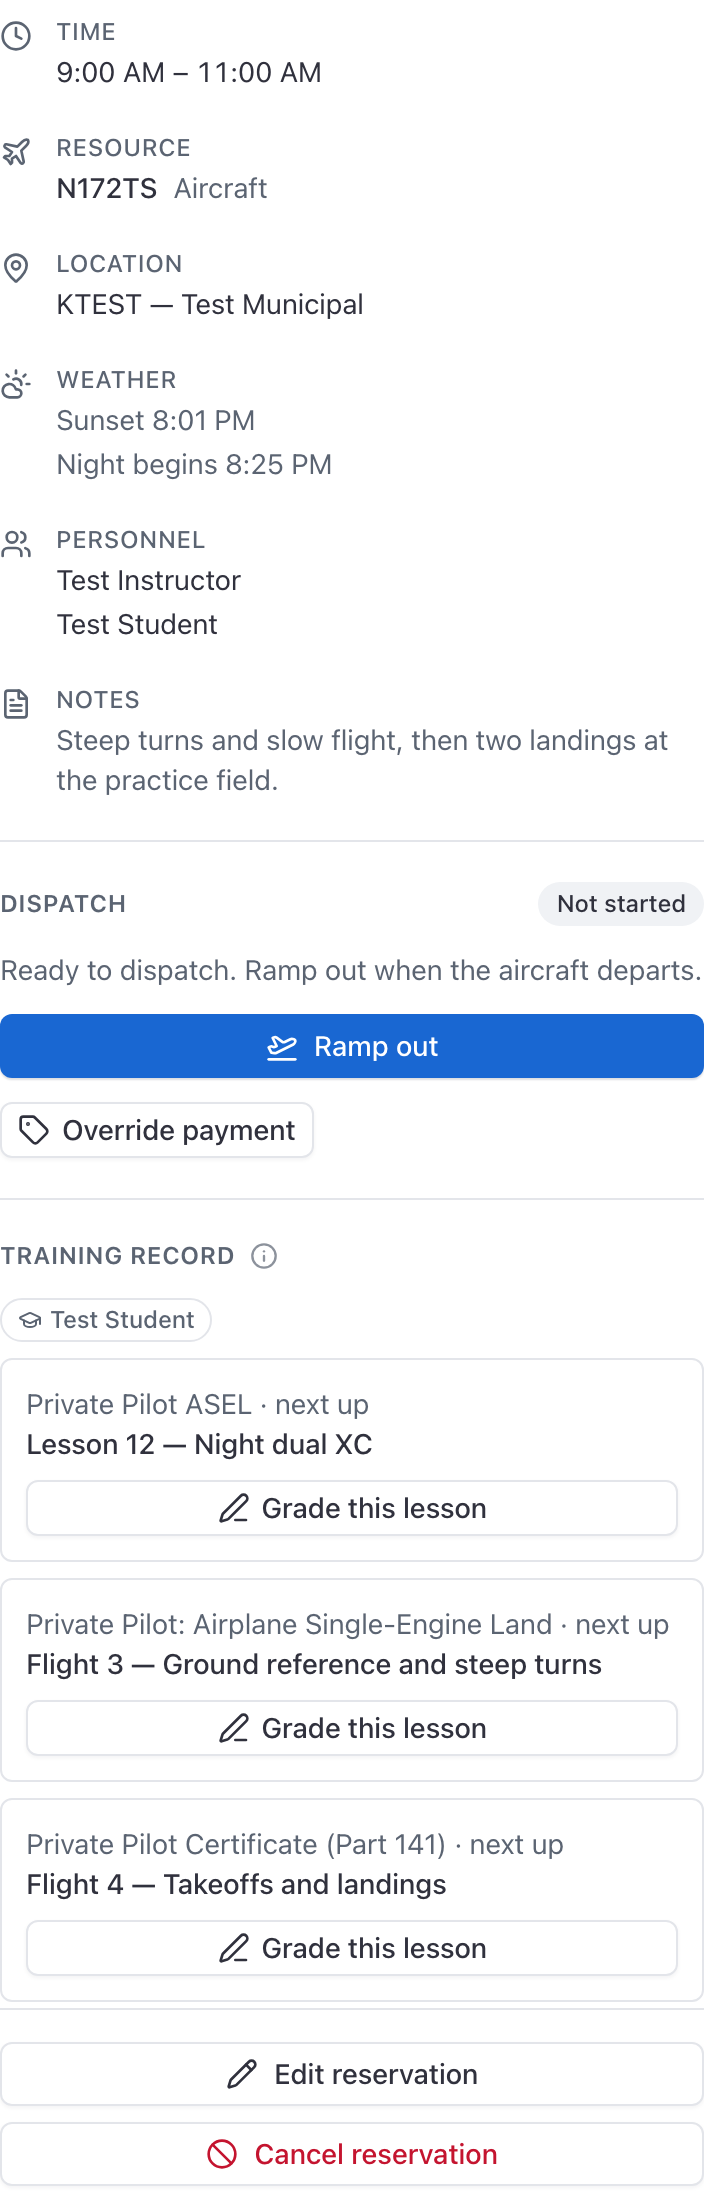
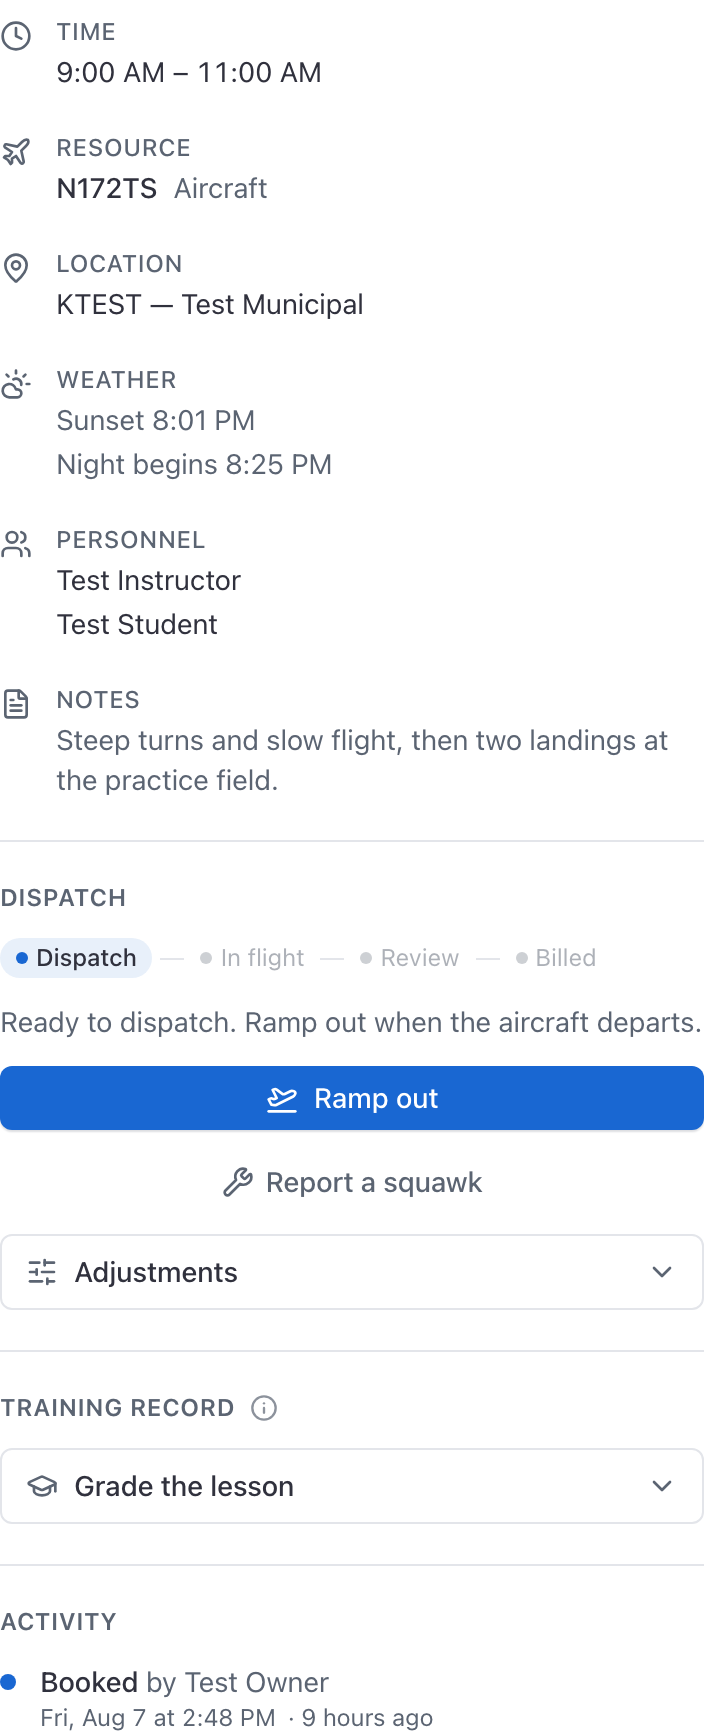
Stop telling customers to go and use the iPhone
Six pages said a job could only be done on the app. Each one was a console gap
rather than a fact about the product, and each is now closed in code:

- Simulator hours and per-task ACS grades. The troubleshooting page went as far
  as explaining the consequence, that a school grading in the console "never
  records device time as device time, which means the course's simulator limit
  never applies to anything they teach".
- Notes required, described as something the iPhone app enforces. The server
  enforces it now, so the sentence is about the rule rather than the device.
- A custom grading scale, said to cost a school the close-out grader. The
  close-out has read the course's own marks for a while; the page had not caught
  up.
- Reporting a squawk, where the advice to an instructor, student or renter was
  literally "use the app".
- Deleting the organization, listed among an owner's powers as "(iOS app only)".

Two things were also wrong rather than stale. Booking rules said check-outs skip
simulators; the server checks them exactly like an aircraft, which is a rule a
school could have been relying on backwards. And the squawk page documented the
missing-description trap as a quirk to live with.

The Who pays what screenshot was blocked on the collided column labels and is
published now that they are fixed.

diff --git a/src/lib/docs-screenshots.ts b/src/lib/docs-screenshots.ts
@@ -114,6 +114,15 @@ export const SCREENSHOTS: ScreenshotSpec[] = [
     crop: '[data-doc-shot="reservation-detail-panel"]',
   },
   {
+    id: "close-out-readings",
+    screen: "What the flight recorded, in the close-out",
+    route: "/schedule?reservation={awaitingReviewReservationId}",
+    alt: "Hobbs, tach, hours flown and instruction time recorded on a flight",
+    dataState:
+      "A booking that has ramped in, so both pairs of readings, the hours flown and the instruction time are all present, with the ramped out and ramped in times underneath. Absent entirely on a booking that has not flown.",
+    crop: '[data-doc-shot="close-out-readings"]',
+  },
+  {
     id: "reservation-detail-awaiting-signoff",
     screen: "Reservation detail panel, close-out section",
     route: "/schedule?reservation={awaitingReviewReservationId}",
@@ -273,8 +282,19 @@ export const SCREENSHOTS: ScreenshotSpec[] = [
     route: "/schedule?reservation={splitReservationId}",
     alt: "Who pays what panel",
     dataState:
-      "A booking with more than one person billed for it that has ramped in and has not been invoiced. The panel renders itself once there are two payers; it disappears the moment the invoices exist, because the server refuses to change the shares after that. The per-payer leg and share fields have no ids of their own, so the live mismatch warnings are not reachable from a capture step yet. BLOCKED ON A CONSOLE FIX: at the panel's own width the Instruction (hrs) column label is 92px wide in a 66px column, so it runs 26px under Share % and the two headings render on top of each other as unreadable text. The capture itself works; the file was deleted rather than published, because a screenshot of two collided labels reads as a broken image. Widen that column (or shorten the label) in web, then re-run this id.",
+      "A booking with more than one person billed for it that has ramped in and has not been invoiced. The panel renders itself once there are two payers; it disappears the moment the invoices exist, because the server refuses to change the shares after that. The per-payer leg and share fields have no ids of their own, so the live mismatch warnings are not reachable from a capture step yet. The panel now folds behind a summary, so the step has to open it first. THE COLLIDED LABELS ARE FIXED: the field grid was asking for up to five columns off the VIEWPORT width inside a panel capped at 448px, which ran Instruction (hrs) underneath Share %. It is two columns now, at every width.",
     crop: '[data-doc-shot="who-pays-what-panel"]',
+    open: ['button:has-text("Who pays what")'],
+  },
+  {
+    id: "who-pays-split-evenly",
+    screen: "Who pays what, after Split evenly",
+    route: "/schedule?reservation={splitReservationId}",
+    alt: "Who pays what, after Split evenly",
+    dataState:
+      "The same booking, with Split evenly pressed: consecutive Hobbs legs per payer, instruction divided, 50/50 shares, and the running totals underneath reporting that the individual hours add up to what the aircraft flew and the shares come to 100%. The button only appears once the booking has ramped in, since before that there are no hours to divide.",
+    crop: '[data-doc-shot="who-pays-what-panel"]',
+    open: ['button:has-text("Who pays what")', 'button:has-text("Split evenly")'],
   },
   {
     id: "cancel-reservation-dialog",
@@ -580,7 +600,7 @@ export const SCREENSHOTS: ScreenshotSpec[] = [
     route: "/schedule?reservation={scheduledReservationId}",
     alt: "Reservation detail sheet, Close-out section",
     dataState:
-      "Today's dual booking with an aircraft and an instructor, not yet ramped, so the step badge reads Not started and the Ramp out button is the only action.",
+      "Today's dual booking with an aircraft and an instructor, not yet ramped, so the progress row highlights Dispatch and the Ramp out button is the only action. There are no readings yet, so that block is absent, and everything secondary is folded.",
     crop: '[data-doc-shot="close-out-not-started"]',
   },
   {
@@ -1258,7 +1278,24 @@ export const SCREENSHOTS: ScreenshotSpec[] = [
     dataState:
       "A completed dual booking with an enrolled student, Hobbs out and in plus briefing time entered, and the Training record block expanded so the lesson dropdown (with completed lessons prefixed by a tick), the grade and the prefilled Flight and Ground fields all show. The block starts collapsed behind a Grade this lesson button, so the step has to open it.",
     crop: '[data-doc-shot="closeout-training-section"]',
-    open: ['button:has-text("Grade this lesson")'],
+    //Two clicks now: the whole Training record block folds away behind a summary ("1 of 2
+    //graded"), because a booking with two students on it opened a grading form per student
+    //per course and buried the close-out itself.
+    open: ['button:has-text("Grade the lesson")', 'button:has-text("Grade this lesson")'],
+  },
+  {
+    id: "task-grades",
+    screen: "Per-task ACS grades in the close-out grader",
+    //The two-student booking, deliberately, and not {trainingReservationId}: the grader
+    //that opens is the FIRST one on the sheet, and on that booking the first student's
+    //first course is one whose next lesson carries no tasks, so the shot has nothing in it.
+    //Here the first grader is a Part 141 flight lesson with four ACS tasks on it.
+    route: "/schedule?reservation={splitReservationId}",
+    alt: "Per-task ACS grades in the close-out grader",
+    dataState:
+      "A completed dual booking whose FIRST student's first course has a next lesson carrying ACS tasks, so each task shows its code and this course's marks as buttons and the header counts how many are marked. Nothing is marked: unmarked is the state the reader has to recognise.",
+    crop: '[data-doc-shot="task-grades"]',
+    open: ['button:has-text("Grade the lesson")', 'button:has-text("Grade this lesson")'],
   },
   {
     id: "booking-next-up-hint",
